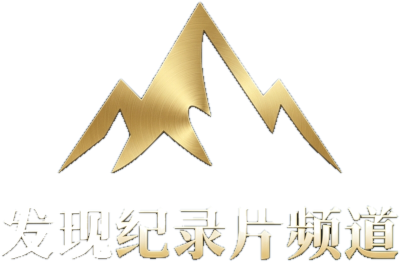
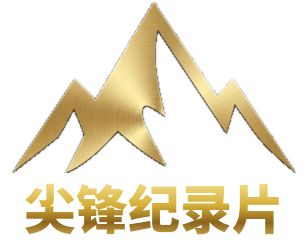
brand(zh): 中文频道更名「尖锋纪录片」——水印/头像重制,d8运营人设同步
金山台标不变,文字换新名(与英文频道 SUMMIT 呼应)。watermark_tr.png 被
d7视频角标/d8中文封面引用,替换即全线生效。

diff --git a/src/stages/d8_meta.py b/src/stages/d8_meta.py
@@ -48,7 +48,7 @@ _LICENSE_LABELS = {
 }
 
 SYSTEM = (
-    "你是「发现纪录片频道」的 YouTube 运营。频道把公有领域英文纪录片翻译配音成"
+    "你是「尖锋纪录片」的 YouTube 运营。频道把公有领域英文纪录片翻译配音成"
     "中文重新发布。为给定的中文配音脚本写吸引点击的元数据。"
     "只输出一个 JSON 对象，不要额外文字、不要 markdown 代码块。"
 )
